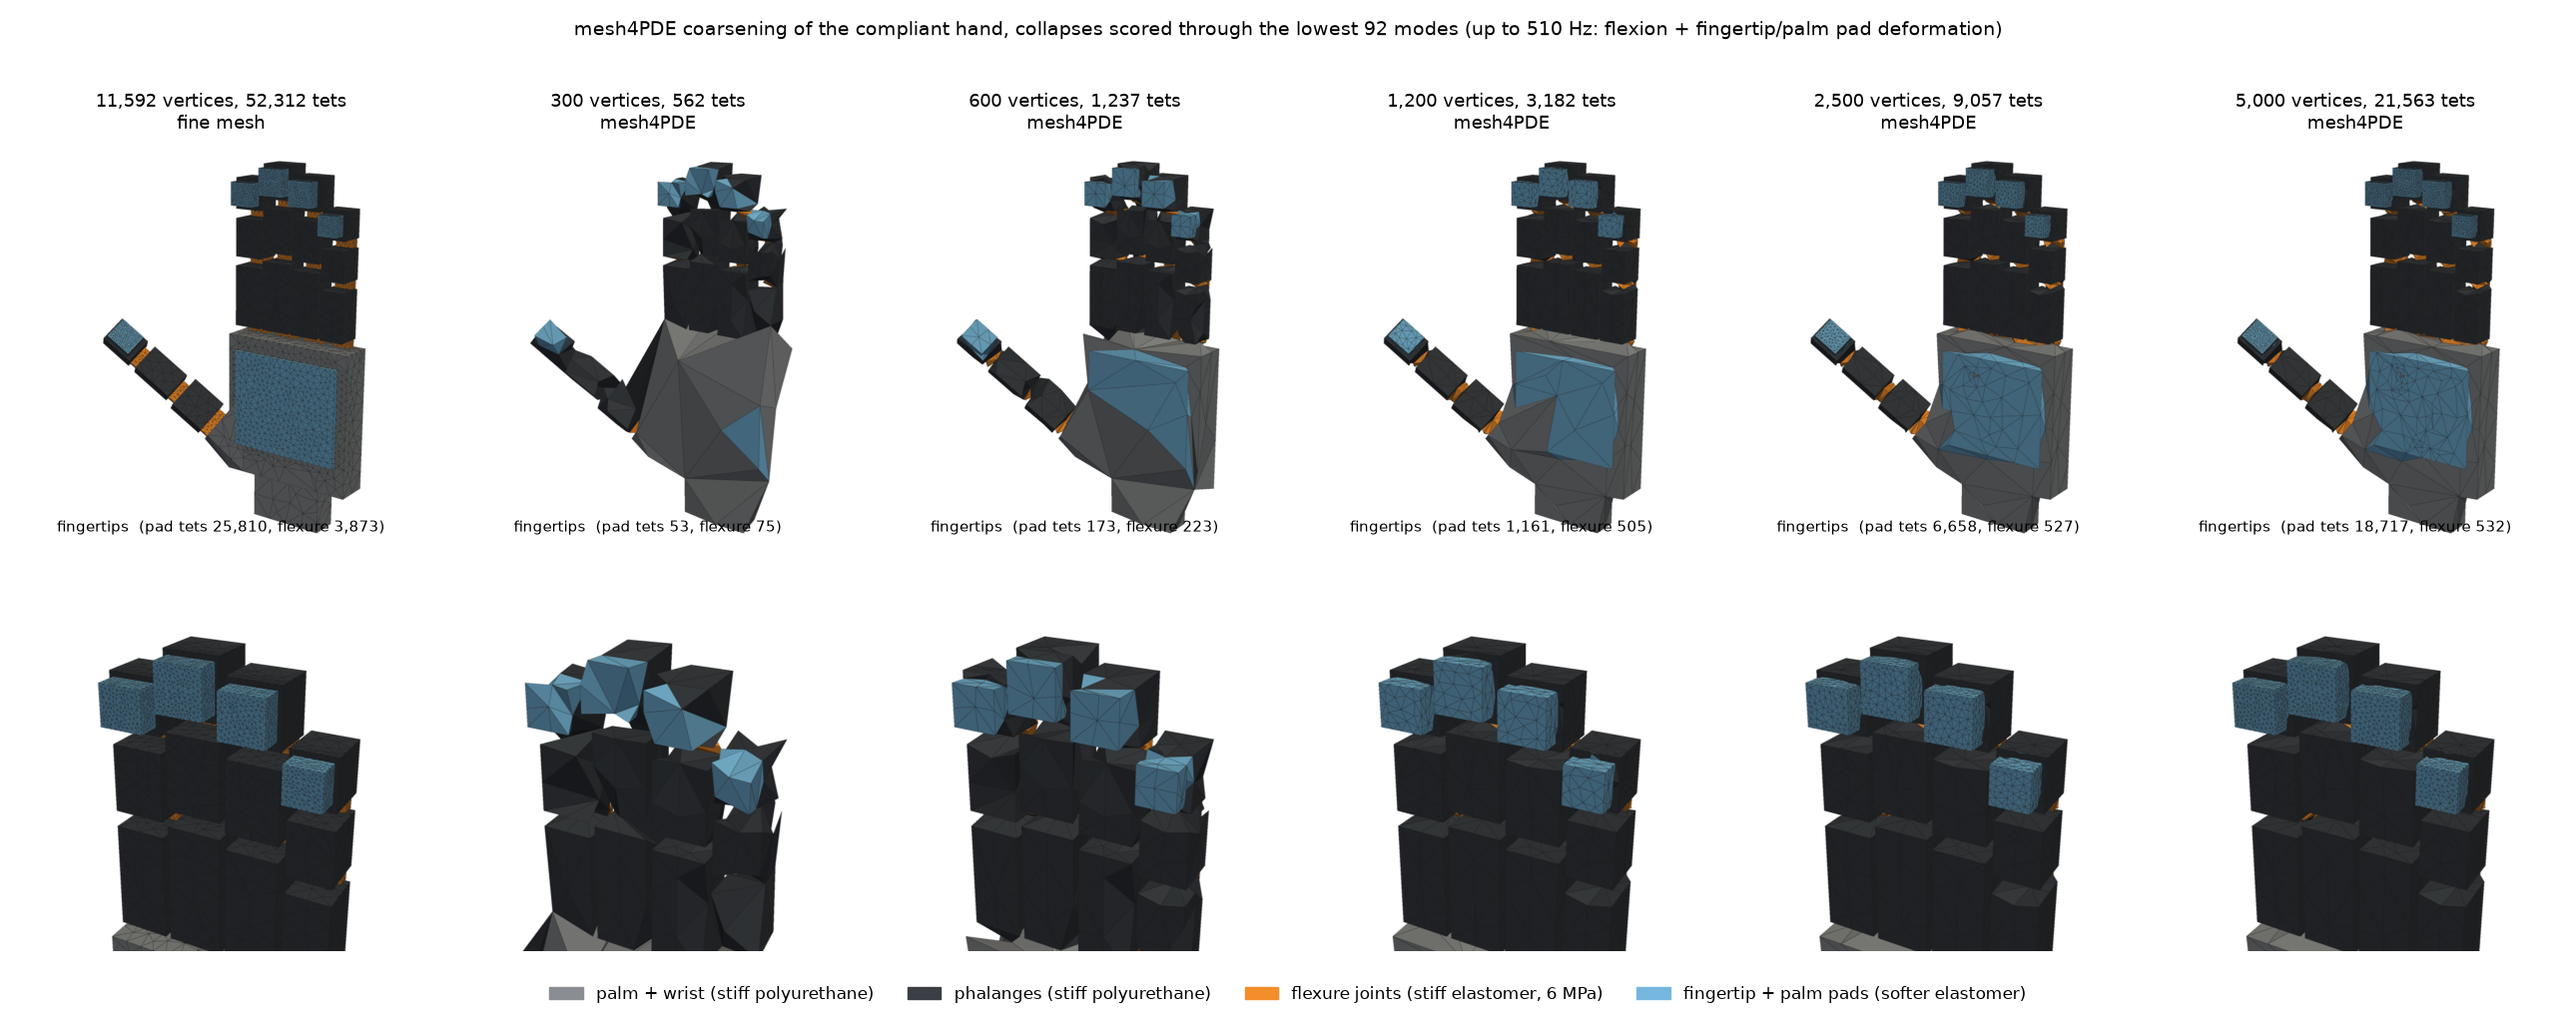
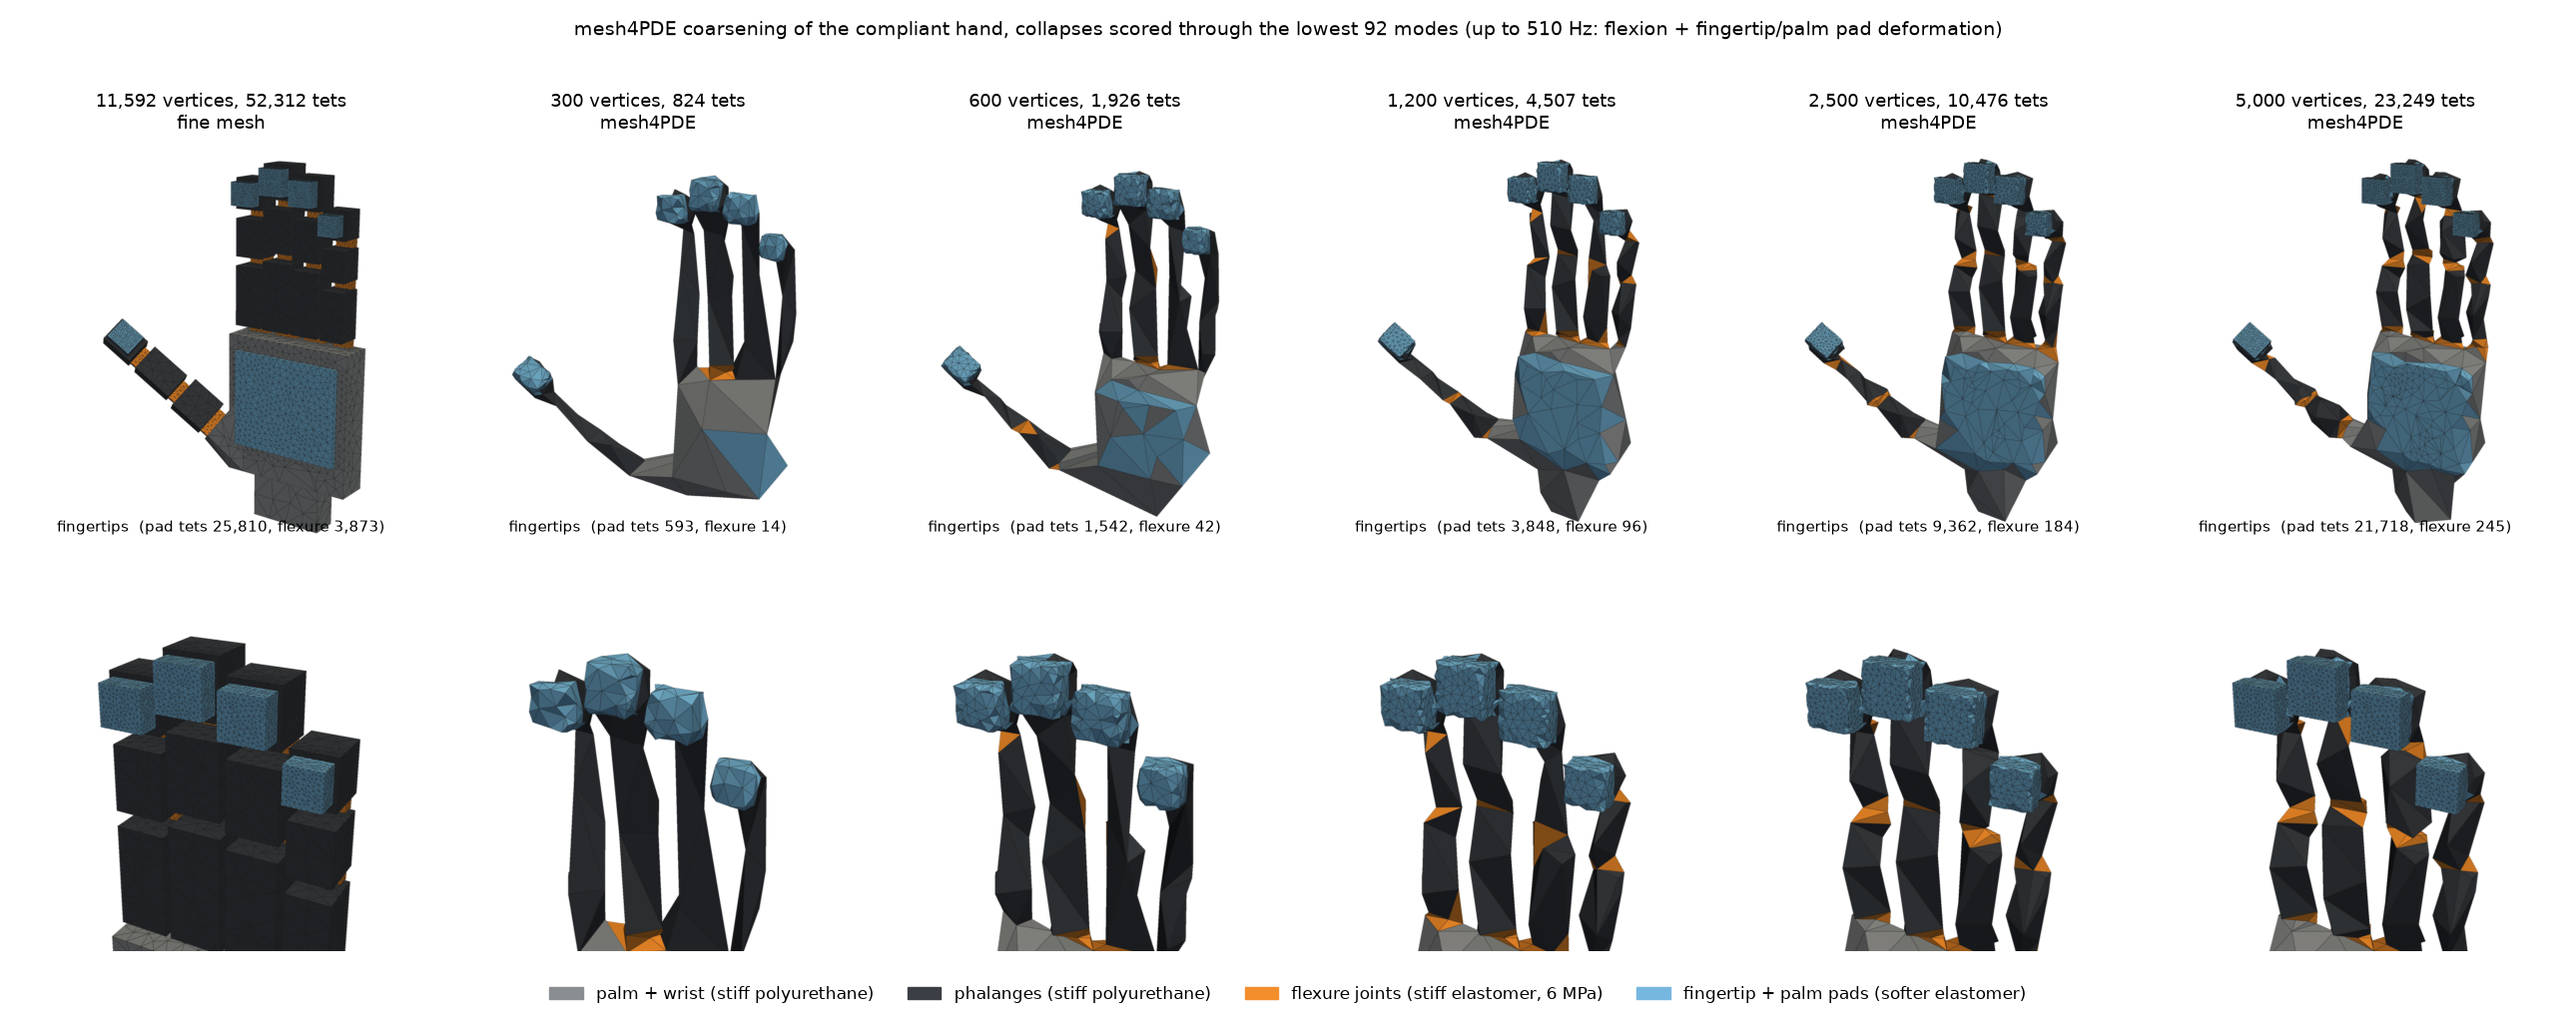
sdm_hand: coarse mesh gallery (unmodified mesh4PDE) + joint-bridging tet diagnostic
Claude-Session: https://claude.ai/code/session_01TyQnT1uCg7CHgcfKia7LmG

diff --git a/examples/sdm_hand/sdm_joint_bridges.py b/examples/sdm_hand/sdm_joint_bridges.py
@@ -1,0 +1,78 @@
+"""Coarse tets that bridge a flexure joint (vertices on both sides of the flexure
+mid-plane), coloured by the material they integrate: a 1.5 GPa tet spanning a
+joint locks it. Writes renders/22_joint_bridges.png and prints counts.
+
+    python sdm_joint_bridges.py
+"""
+import os
+import numpy as np
+import pyvista as pv
+import matplotlib
+matplotlib.use("Agg")
+import matplotlib.pyplot as plt
+from matplotlib.patches import Patch
+
+from sdm_geometry import joints
+from sdm_render import tet_grid, shot
+from sdm_sim import OUT
+
+pv.OFF_SCREEN = True
+LEVELS = [300, 600, 1200, 2500, 5000]
+STIFF, SOFT, PAD = "#d62728", "#f28e2b", "#76b7e0"
+
+
+def bridging(X, T, finger_only=None):
+    out = np.zeros(len(T), bool)
+    for jt in joints():
+        if finger_only and not jt["name"].startswith(finger_only):
+            continue
+        A = jt["A"]
+        loc = (X - A[:3, 3]) @ A[:3, :3]
+        s = loc[:, 2] - 0.5 * (jt["z0"] + jt["z1"])
+        near = (np.abs(loc[:, 0]) < 0.014) & (loc[:, 1] > -0.02) & (loc[:, 1] < 0.03) & (np.abs(s) < 0.03)
+        sv = s[T]
+        out |= near[T].all(1) & (sv.min(1) < -0.002) & (sv.max(1) > 0.002)
+    return out
+
+
+def main():
+    fig, ax = plt.subplots(2, len(LEVELS), figsize=(4.2 * len(LEVELS), 10))
+    for j, lv in enumerate(LEVELS):
+        d = dict(np.load(os.path.join(OUT, "coarse", f"sdm_tets_{lv}.npz")))
+        X, T, E = d["X"], d["T"], d["E"]
+        kinds = np.array([str(k) for k in d["part_kind"]])[d["part"]]
+        allb = bridging(X, T)
+        for i, finger in enumerate(["middle", "index"]):
+            br = bridging(X, T, finger)
+            col = np.where(E[br] >= 1e9, 0, np.where(kinds[br] == "pad", 2, 1)).astype(float)
+            g = tet_grid(X, T[br], c=col)
+            ctx = tet_grid(X, T[~br]).extract_surface(algorithm="dataset_surface")
+            jt = [q for q in joints() if q["name"] == f"{finger}_flex1"][0]
+            A = jt["A"]
+            c = A[:3, :3] @ np.array([0, 0.011, 0.5 * (jt["z0"] + jt["z1"])]) + A[:3, 3]
+            box = pv.Box(bounds=(c[0] - 0.02, c[0] + 0.02, c[1] - 0.045, c[1] + 0.045, c[2] - 0.055, c[2] + 0.06))
+
+            def add(pl, g=g, ctx=ctx):
+                pl.add_mesh(ctx, color="#bdbab2", opacity=0.18)
+                pl.add_mesh(g, scalars="c", cmap=[STIFF, SOFT, PAD], clim=(-0.5, 2.5), n_colors=3,
+                            show_scalar_bar=False, show_edges=True, edge_color="#111111", line_width=0.8)
+            ax[i, j].imshow(shot(add, ((1.0, -0.15, 0.05), (0, 0, 1)), size=(640, 900), zoom=1.0,
+                                 focus=c, bounds_mesh=box))
+            ax[i, j].axis("off")
+            ns = int((E[br] >= 1e9).sum())
+            ax[i, j].set_title(f"{lv} v: {finger} finger\n{br.sum()} bridging tets, {ns} stiff", fontsize=11.5)
+        print(f"{lv}: {allb.sum()} tets bridge a joint, {(E[allb] >= 1e9).sum()} of them 1.5 GPa, "
+              f"{(kinds[allb] == 'flexure').sum()} flexure (6 MPa), {(kinds[allb] == 'pad').sum()} pad")
+    fig.legend(handles=[Patch(color=STIFF, label="bridging tet integrates 1.5 GPa block material (locks the joint)"),
+                        Patch(color=SOFT, label="bridging tet integrates 6 MPa flexure material"),
+                        Patch(color=PAD, label="bridging tet integrates 0.2 MPa pad material")],
+               loc="lower center", ncol=3, frameon=False, fontsize=11)
+    fig.suptitle("Coarse tets spanning a flexure joint (side view, fingers point up, palm to the left), "
+                 "coloured by the material their centroid label gives them", fontsize=13)
+    fig.tight_layout(rect=(0, 0.04, 1, 0.95))
+    fig.savefig(os.path.join(OUT, "renders", "22_joint_bridges.png"), dpi=90)
+    print("wrote renders/22_joint_bridges.png")
+
+
+if __name__ == "__main__":
+    main()
